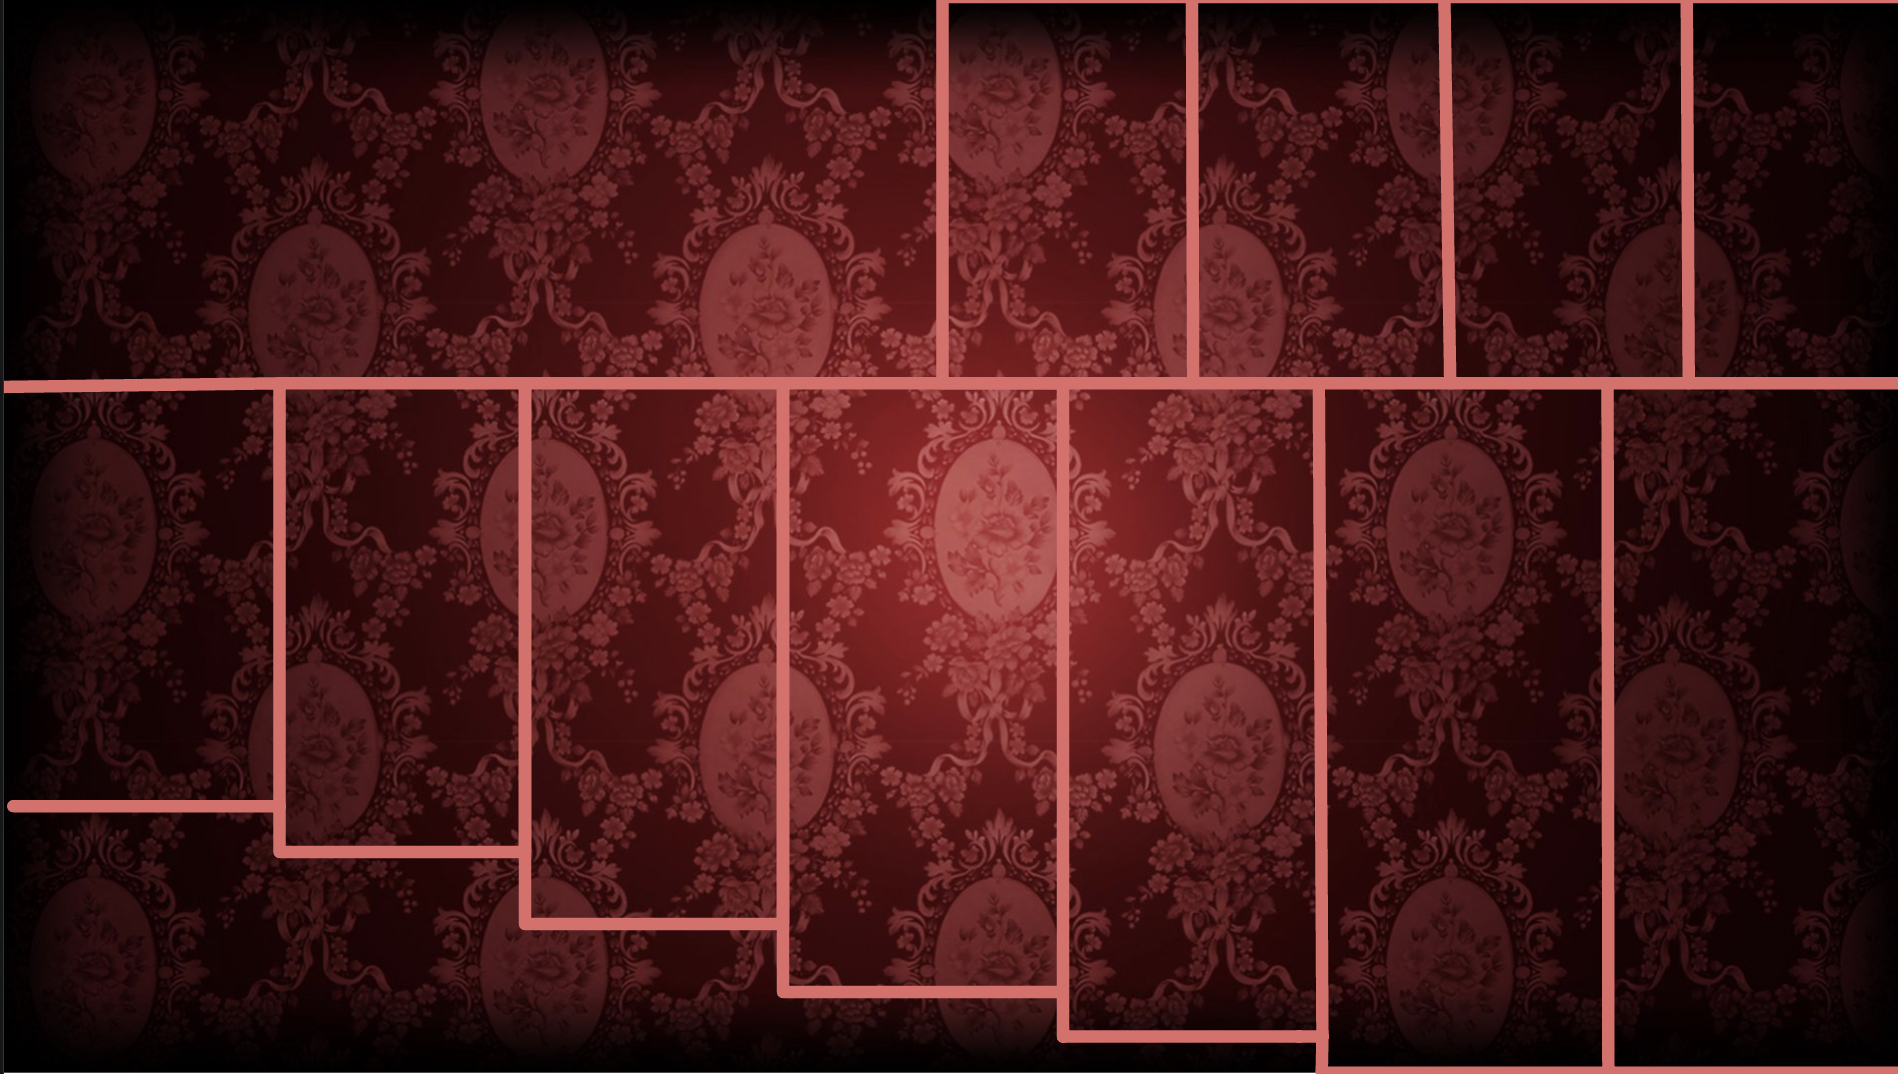
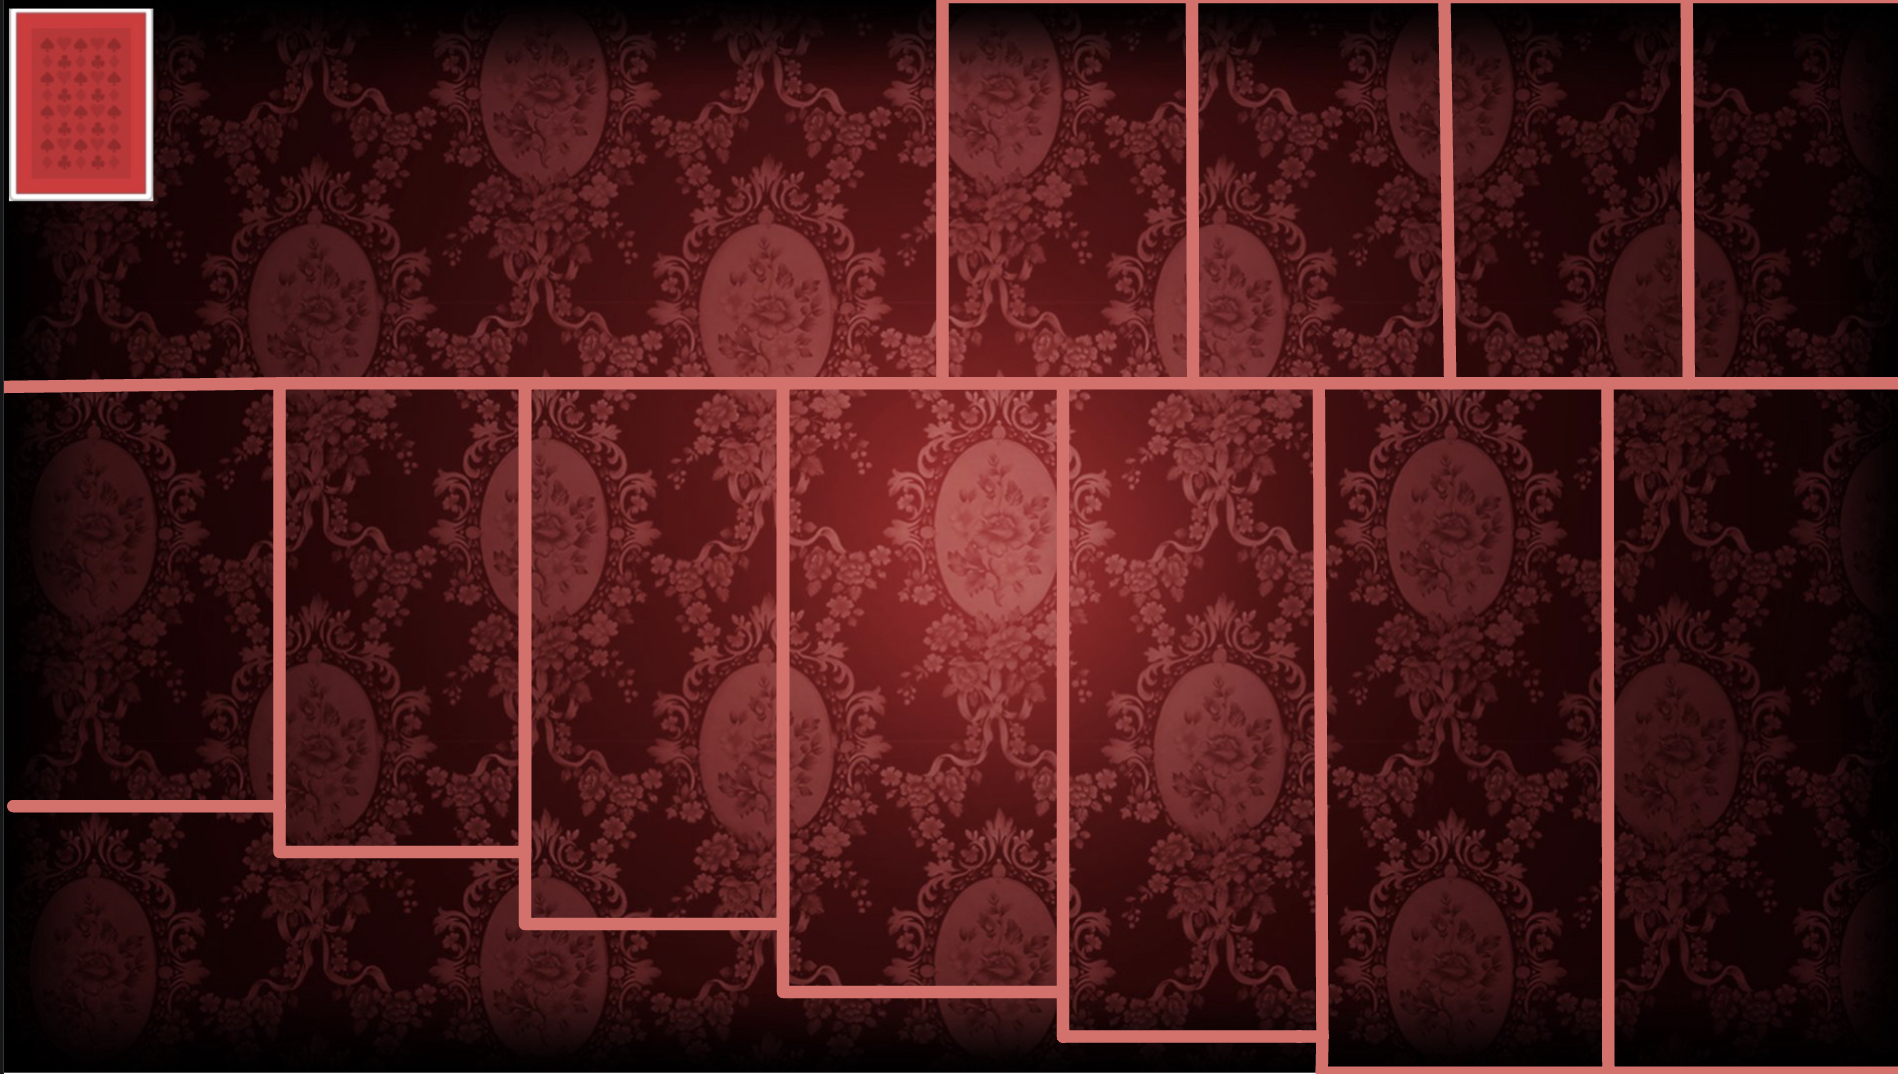
button as sprite was bad idea, added to background

Changed region(s): [[0.0, 0.0, 0.0933, 0.2151]]

diff --git a/game0.py b/game0.py
@@ -42,9 +42,7 @@ class Game(arcade.Window):
 
         for i in range(len(self.playableDeck.deck)):
             self.all_sprites.append(self.playableDeck.deck[i].sprite)
-        #creating a new card button as a sprite
-        self.Card_Button = arcade.Sprite(":resources:images/cards/cardBack_red2.png", center_x = 80, center_y = 970)
-        self.all_sprites.append(self.Card_Button)
+        
         # the card you are holding 
             # the first item will be the card sprite
             # the second tuple will be the original x and y
@@ -66,8 +64,7 @@ class Game(arcade.Window):
     def on_mouse_press(self, x: float, y: float, button: int, modifiers: int):
         on_sprites = arcade.get_sprites_at_point((x, y), self.all_sprites)
         ## selects the frontmost card the player clicks on
-        if on_sprites == self.all_sprites[52]:
-            quit
+        
         if len(on_sprites) > 0 and on_sprites != self.all_sprites[52]:    
             self.held_card[0] = on_sprites[-1]
             self.held_card[1] = (self.held_card[0].center_x, self.held_card[0].center_y)
